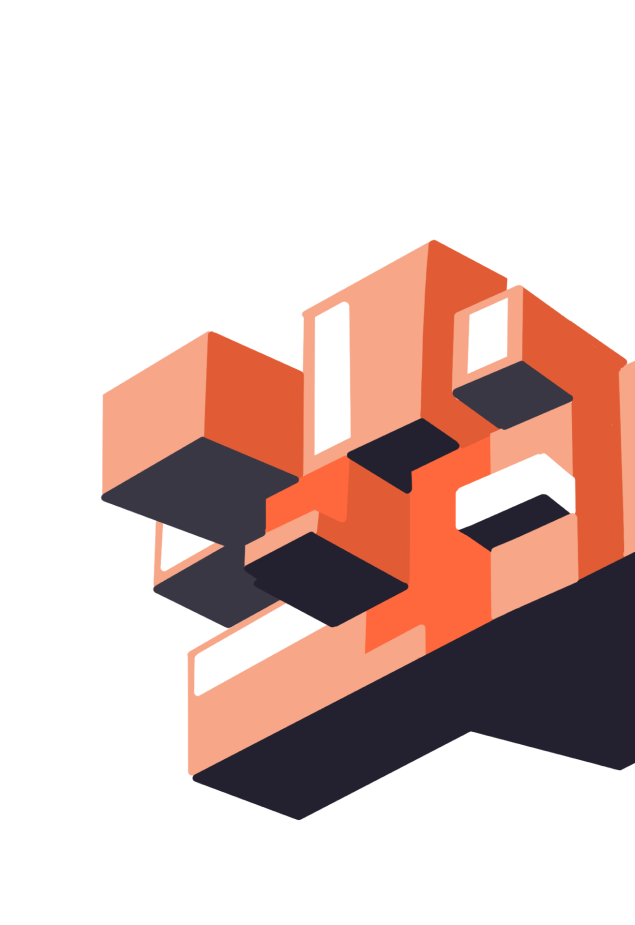
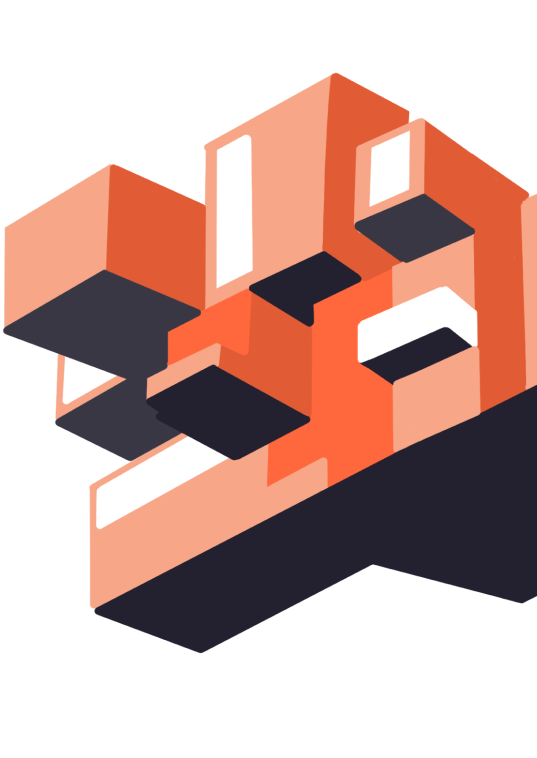
Init hero section & add nav auto-scroll

diff --git a/src/components/Hero.js b/src/components/Hero.js
@@ -2,17 +2,76 @@ import React from 'react';
 import { Container } from 'react-bootstrap';
 import styled from 'styled-components';
 
+import Building from '../assets/building-hero.png';
+import { ReactComponent as Train } from '../assets/train.svg';
+import { ReactComponent as Trees } from '../assets/trees.svg';
+
 const Hero = () => {
     return (
         <HeroWrapper>
-            <Container>Hero!</Container>
+            <Container>
+                <h1>
+                    <span>SD</span>
+                    <br />
+                    hacks
+                </h1>
+                <h2>February 19-21, 2021</h2>
+                <img
+                    src={Building}
+                    alt="some building at UCSD"
+                    className="building-img"
+                />
+            </Container>
+            <Train className="train-img" />
+            <Trees className="trees-img" />
         </HeroWrapper>
     );
 };
 
 const HeroWrapper = styled.section`
-    min-height: 85vh;
+    height: 85vh;
+    min-height: 800px;
     background-color: var(--orange-light);
+    display: flex;
+    align-items: center;
+    position: relative;
+
+    h1 {
+        font-weight: 900;
+        font-size: clamp(5rem, 30vw, 11rem);
+        line-height: 0.6em;
+
+        span {
+            color: var(--orange);
+            position: relative;
+            left: 0.3em;
+        }
+    }
+
+    h2 {
+        font-weight: 700;
+        font-size: clamp(1.5rem, 7vw, 3.75rem);
+        color: var(--orange);
+    }
+
+    .building-img {
+        position: absolute;
+        top: 0;
+        right: 0;
+        width: 30%;
+    }
+
+    .train-img {
+        position: absolute;
+        bottom: -2px;
+        left: -5px;
+    }
+
+    .trees-img {
+        position: absolute;
+        bottom: -55px;
+        right: 0;
+    }
 `;
 
 export default Hero;

diff --git a/src/components/Header.js b/src/components/Header.js
@@ -1,8 +1,34 @@
-import React from 'react';
+import React, { useEffect, useMemo } from 'react';
 import { Navbar, Nav, Container } from 'react-bootstrap';
 import 'styled-components/macro';
+import $ from 'jquery';
 
 const Header = () => {
+    const navLinks = useMemo(
+        () => [
+            { name: 'about', href: '#about', className: 'about' },
+            { name: 'contact', href: '#contact', className: 'contact' },
+        ],
+        []
+    );
+
+    useEffect(() => {
+        navLinks.forEach(({ href, className }) => {
+            $(`a[href='${href}']`).on('click', () => {
+                $('html,body').animate(
+                    {
+                        scrollTop: $(`.${className}`).offset().top,
+                    },
+                    'slow'
+                );
+            });
+        });
+
+        return () => {
+            navLinks.forEach(({ href }) => $(`a[href='${href}']`).off());
+        };
+    }, [navLinks]);
+
     return (
         <Navbar
             bg="orange-light"
@@ -36,8 +62,11 @@ const Header = () => {
                 <Navbar.Toggle aria-controls="navbar-nav" />
                 <Navbar.Collapse id="navbar-nav">
                     <Nav className="ml-auto">
-                        <Nav.Link href="#about">About</Nav.Link>
-                        <Nav.Link href="#contact">Contact</Nav.Link>
+                        {navLinks.map(({ name, href }, i) => (
+                            <Nav.Link href={href} key={i}>
+                                {name}
+                            </Nav.Link>
+                        ))}
                     </Nav>
                 </Navbar.Collapse>
             </Container>

diff --git a/src/components/About.js b/src/components/About.js
@@ -4,7 +4,7 @@ import styled from 'styled-components';
 
 const About = () => {
     return (
-        <AboutSection>
+        <AboutSection className="about">
             <StyledContainer>
                 <Row>
                     <Col xl={5} lg={6}>

diff --git a/src/components/Footer.js b/src/components/Footer.js
@@ -1,7 +1,7 @@
 import React from 'react';
 
 const Footer = () => {
-    return <footer>Footer</footer>;
+    return <footer className="contact">Footer</footer>;
 };
 
 export default Footer;
